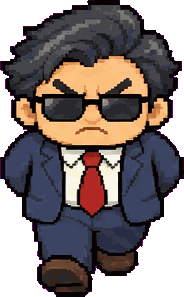
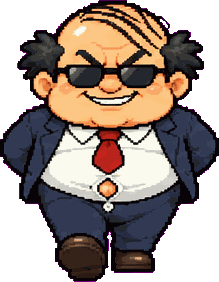
老板形象丑化：换成地中海盖顶版
- 重出老板 4 个动作（新表 s9_boss）和四向走路 12 帧，保留墨镜、藏青西装、红领带
- s5 里旧老板那一行不再输出，锅和特效不动；gen_walk.sh 的参考图支持绝对路径
- 重打老板图集，更新 DESIGN.md 角色表和改动记录

diff --git a/js/atlas.js b/js/atlas.js
@@ -1,2 +1,2 @@
 /* 由 assets_pixel/pack_atlas.py 自动生成，不要手改。每张图集里各小图的位置 [x, y, 宽, 高]；文件名带内容哈希，图集更新后浏览器会重新下载 */
-window.ATLAS = {"sheets":[{"file":"boss.png?v=c84c7d96","frames":{"boss_aim":[275,0,234,300],"boss_chase":[0,0,273,300],"boss_idle":[511,0,219,300],"boss_walk":[355,604,168,300],"boss_walk_d0":[525,604,184,297],"boss_walk_d1":[711,604,184,297],"boss_walk_d2":[0,906,184,297],"boss_walk_d3":[186,906,184,297],"boss_walk_s0":[732,0,187,300],"boss_walk_s1":[188,302,176,300],"boss_walk_s2":[0,302,186,300],"boss_walk_s3":[178,604,175,300],"boss_walk_u0":[366,302,176,300],"boss_walk_u1":[544,302,176,300],"boss_walk_u2":[722,302,176,300],"boss_walk_u3":[0,604,176,300]}},{"file":"props.png?v=6e7ce578","frames":{"boss_desk":[529,0,408,326],"cabinet":[556,654,225,218],"cooler":[442,362,132,251],"desk":[0,362,440,290],"meeting_table":[0,0,527,360],"plant":[321,654,233,222],"plant_small":[345,878,145,163],"printer":[783,654,203,205],"sofa":[0,878,343,196],"tea_counter":[0,654,319,222],"whiteboard":[576,362,286,231]}},{"file":"misc.png?v=8cd138b3","frames":{"closing_base_orange":[0,0,1170,288],"closing_base_plain":[0,290,1170,288],"closing_base_red":[0,580,1170,288],"closing_base_yellow":[0,870,1170,288],"closing_clock_orange":[0,1160,258,198],"closing_clock_red":[260,1160,258,198],"closing_clock_yellow":[520,1160,258,198],"fx_anger":[1194,1160,114,120],"fx_dizzy":[1077,1160,115,120],"fx_impact":[0,1360,120,112],"fx_sweat":[1310,1160,92,120],"fx_tears":[836,1360,120,95],"ui_badge":[760,1360,74,96],"ui_book":[0,1474,96,76],"ui_calendar":[414,1360,90,96],"ui_clock":[318,1360,94,96],"ui_coach_hand":[1172,870,192,207],"ui_crown":[1350,1360,96,84],"ui_exit":[506,1360,88,96],"ui_lock":[681,1360,77,96],"ui_pause":[596,1360,83,96],"ui_praise_bounce":[1154,1360,96,87],"ui_praise_rankup":[294,1474,96,56],"ui_praise_thumb":[122,1360,96,96],"ui_sound_off":[220,1360,96,96],"ui_sound_on":[98,1474,96,75],"ui_star":[958,1360,96,93],"ui_star_empty":[1056,1360,96,91],"ui_warning":[1252,1360,96,85],"ui_wok":[196,1474,96,69],"wok":[780,1160,143,150],"wok_flying":[925,1160,150,132]}},{"file":"designer.png?v=8859db51","frames":{"designer_angry":[0,0,196,230],"designer_flat":[138,696,230,105],"designer_hit":[198,0,188,230],"designer_normal":[0,696,136,230],"designer_walk_d0":[147,464,144,230],"designer_walk_d1":[585,464,143,230],"designer_walk_d2":[388,0,146,230],"designer_walk_d3":[293,464,144,230],"designer_walk_s0":[536,0,146,230],"designer_walk_s1":[0,464,145,230],"designer_walk_s2":[0,232,146,230],"designer_walk_s3":[439,464,144,230],"designer_walk_u0":[148,232,146,230],"designer_walk_u1":[296,232,146,230],"designer_walk_u2":[444,232,146,230],"designer_walk_u3":[592,232,146,230]}},{"file":"director.png?v=8661d6e9","frames":{"director_aim":[636,604,300,287],"director_chase":[0,0,263,300],"director_idle":[488,604,146,300],"director_walk":[806,0,173,300],"director_walk_d0":[517,302,165,300],"director_walk_d1":[326,604,160,300],"director_walk_d2":[265,0,180,300],"director_walk_d3":[0,604,161,300],"director_walk_s0":[0,302,173,300],"director_walk_s1":[163,604,161,300],"director_walk_s2":[175,302,172,300],"director_walk_s3":[849,302,162,300],"director_walk_u0":[447,0,178,300],"director_walk_u1":[349,302,166,300],"director_walk_u2":[627,0,177,300],"director_walk_u3":[684,302,163,300]}},{"file":"intern.png?v=46c1a2f4","frames":{"intern_cry":[0,0,168,230],"intern_flat":[0,696,230,113],"intern_hit":[170,0,159,230],"intern_normal":[563,464,130,230],"intern_walk_d0":[440,232,140,230],"intern_walk_d1":[0,464,139,230],"intern_walk_d2":[154,232,141,230],"intern_walk_d3":[297,232,141,230],"intern_walk_s0":[331,0,152,230],"intern_walk_s1":[485,0,152,230],"intern_walk_s2":[639,0,152,230],"intern_walk_s3":[0,232,152,230],"intern_walk_u0":[423,464,138,230],"intern_walk_u1":[582,232,140,230],"intern_walk_u2":[141,464,139,230],"intern_walk_u3":[282,464,139,230]}},{"file":"intro.png?v=758b9cec","frames":{"intro_plate":[0,0,956,1645],"intro_tab_blue":[958,0,282,146],"intro_tab_gold":[0,1647,282,146]}},{"file":"player.png?v=f99e8b0e","frames":{"player_crushed":[0,696,230,217],"player_normal":[289,464,139,230],"player_panic":[0,0,177,230],"player_walk_d0":[295,232,144,230],"player_walk_d1":[441,232,144,230],"player_walk_d2":[329,0,146,230],"player_walk_d3":[587,232,143,230],"player_walk_s0":[0,464,143,230],"player_walk_s1":[430,464,139,230],"player_walk_s2":[145,464,142,230],"player_walk_s3":[571,464,139,230],"player_walk_u0":[477,0,146,230],"player_walk_u1":[625,0,146,230],"player_walk_u2":[0,232,146,230],"player_walk_u3":[148,232,145,230],"player_win":[179,0,148,230]}},{"file":"pm.png?v=2ad2713c","frames":{"pm_angry":[0,0,148,230],"pm_flat":[463,464,230,116],"pm_hit":[150,0,148,230],"pm_normal":[547,0,118,230],"pm_walk_d0":[0,232,118,230],"pm_walk_d1":[234,464,113,230],"pm_walk_d2":[358,232,116,230],"pm_walk_d3":[349,464,112,230],"pm_walk_s0":[120,232,117,230],"pm_walk_s1":[476,232,116,230],"pm_walk_s2":[239,232,117,230],"pm_walk_s3":[594,232,116,230],"pm_walk_u0":[424,0,121,230],"pm_walk_u1":[0,464,115,230],"pm_walk_u2":[300,0,122,230],"pm_walk_u3":[117,464,115,230]}},{"file":"tester.png?v=40e278a0","frames":{"tester_angry":[0,0,166,230],"tester_flat":[0,696,230,104],"tester_hit":[168,0,157,230],"tester_normal":[146,232,136,230],"tester_walk_d0":[418,232,131,230],"tester_walk_d1":[551,232,131,230],"tester_walk_d2":[0,464,131,230],"tester_walk_d3":[133,464,131,230],"tester_walk_s0":[327,0,152,230],"tester_walk_s1":[629,0,144,230],"tester_walk_s2":[481,0,146,230],"tester_walk_s3":[0,232,144,230],"tester_walk_u0":[266,464,130,230],"tester_walk_u1":[398,464,130,230],"tester_walk_u2":[284,232,132,230],"tester_walk_u3":[530,464,130,230]}},{"file":"veteran.png?v=6a5f6ad4","frames":{"veteran_flat":[0,696,230,101],"veteran_hit":[0,0,175,230],"veteran_normal":[634,0,149,230],"veteran_tea":[330,0,150,230],"veteran_walk_d0":[177,0,151,230],"veteran_walk_d1":[300,232,143,230],"veteran_walk_d2":[482,0,150,230],"veteran_walk_d3":[445,232,142,230],"veteran_walk_s0":[0,464,137,230],"veteran_walk_s1":[546,464,126,230],"veteran_walk_s2":[589,232,138,230],"veteran_walk_s3":[417,464,127,230],"veteran_walk_u0":[0,232,149,230],"veteran_walk_u1":[139,464,137,230],"veteran_walk_u2":[151,232,147,230],"veteran_walk_u3":[278,464,137,230]}}]};
+window.ATLAS = {"sheets":[{"file":"boss.png?v=d30d07c3","frames":{"boss_aim":[486,0,216,300],"boss_chase":[246,0,238,300],"boss_idle":[0,0,244,300],"boss_walk":[704,0,204,300],"boss_walk_d0":[851,302,219,282],"boss_walk_d1":[0,602,218,282],"boss_walk_d2":[438,602,215,282],"boss_walk_d3":[220,602,216,282],"boss_walk_s0":[0,302,226,298],"boss_walk_s1":[451,302,198,298],"boss_walk_s2":[228,302,221,298],"boss_walk_s3":[651,302,198,298],"boss_walk_u0":[655,602,217,280],"boss_walk_u1":[874,602,213,280],"boss_walk_u2":[0,886,212,280],"boss_walk_u3":[214,886,211,280]}},{"file":"props.png?v=6e7ce578","frames":{"boss_desk":[529,0,408,326],"cabinet":[556,654,225,218],"cooler":[442,362,132,251],"desk":[0,362,440,290],"meeting_table":[0,0,527,360],"plant":[321,654,233,222],"plant_small":[345,878,145,163],"printer":[783,654,203,205],"sofa":[0,878,343,196],"tea_counter":[0,654,319,222],"whiteboard":[576,362,286,231]}},{"file":"misc.png?v=8cd138b3","frames":{"closing_base_orange":[0,0,1170,288],"closing_base_plain":[0,290,1170,288],"closing_base_red":[0,580,1170,288],"closing_base_yellow":[0,870,1170,288],"closing_clock_orange":[0,1160,258,198],"closing_clock_red":[260,1160,258,198],"closing_clock_yellow":[520,1160,258,198],"fx_anger":[1194,1160,114,120],"fx_dizzy":[1077,1160,115,120],"fx_impact":[0,1360,120,112],"fx_sweat":[1310,1160,92,120],"fx_tears":[836,1360,120,95],"ui_badge":[760,1360,74,96],"ui_book":[0,1474,96,76],"ui_calendar":[414,1360,90,96],"ui_clock":[318,1360,94,96],"ui_coach_hand":[1172,870,192,207],"ui_crown":[1350,1360,96,84],"ui_exit":[506,1360,88,96],"ui_lock":[681,1360,77,96],"ui_pause":[596,1360,83,96],"ui_praise_bounce":[1154,1360,96,87],"ui_praise_rankup":[294,1474,96,56],"ui_praise_thumb":[122,1360,96,96],"ui_sound_off":[220,1360,96,96],"ui_sound_on":[98,1474,96,75],"ui_star":[958,1360,96,93],"ui_star_empty":[1056,1360,96,91],"ui_warning":[1252,1360,96,85],"ui_wok":[196,1474,96,69],"wok":[780,1160,143,150],"wok_flying":[925,1160,150,132]}},{"file":"designer.png?v=8859db51","frames":{"designer_angry":[0,0,196,230],"designer_flat":[138,696,230,105],"designer_hit":[198,0,188,230],"designer_normal":[0,696,136,230],"designer_walk_d0":[147,464,144,230],"designer_walk_d1":[585,464,143,230],"designer_walk_d2":[388,0,146,230],"designer_walk_d3":[293,464,144,230],"designer_walk_s0":[536,0,146,230],"designer_walk_s1":[0,464,145,230],"designer_walk_s2":[0,232,146,230],"designer_walk_s3":[439,464,144,230],"designer_walk_u0":[148,232,146,230],"designer_walk_u1":[296,232,146,230],"designer_walk_u2":[444,232,146,230],"designer_walk_u3":[592,232,146,230]}},{"file":"director.png?v=8661d6e9","frames":{"director_aim":[636,604,300,287],"director_chase":[0,0,263,300],"director_idle":[488,604,146,300],"director_walk":[806,0,173,300],"director_walk_d0":[517,302,165,300],"director_walk_d1":[326,604,160,300],"director_walk_d2":[265,0,180,300],"director_walk_d3":[0,604,161,300],"director_walk_s0":[0,302,173,300],"director_walk_s1":[163,604,161,300],"director_walk_s2":[175,302,172,300],"director_walk_s3":[849,302,162,300],"director_walk_u0":[447,0,178,300],"director_walk_u1":[349,302,166,300],"director_walk_u2":[627,0,177,300],"director_walk_u3":[684,302,163,300]}},{"file":"intern.png?v=46c1a2f4","frames":{"intern_cry":[0,0,168,230],"intern_flat":[0,696,230,113],"intern_hit":[170,0,159,230],"intern_normal":[563,464,130,230],"intern_walk_d0":[440,232,140,230],"intern_walk_d1":[0,464,139,230],"intern_walk_d2":[154,232,141,230],"intern_walk_d3":[297,232,141,230],"intern_walk_s0":[331,0,152,230],"intern_walk_s1":[485,0,152,230],"intern_walk_s2":[639,0,152,230],"intern_walk_s3":[0,232,152,230],"intern_walk_u0":[423,464,138,230],"intern_walk_u1":[582,232,140,230],"intern_walk_u2":[141,464,139,230],"intern_walk_u3":[282,464,139,230]}},{"file":"intro.png?v=758b9cec","frames":{"intro_plate":[0,0,956,1645],"intro_tab_blue":[958,0,282,146],"intro_tab_gold":[0,1647,282,146]}},{"file":"player.png?v=f99e8b0e","frames":{"player_crushed":[0,696,230,217],"player_normal":[289,464,139,230],"player_panic":[0,0,177,230],"player_walk_d0":[295,232,144,230],"player_walk_d1":[441,232,144,230],"player_walk_d2":[329,0,146,230],"player_walk_d3":[587,232,143,230],"player_walk_s0":[0,464,143,230],"player_walk_s1":[430,464,139,230],"player_walk_s2":[145,464,142,230],"player_walk_s3":[571,464,139,230],"player_walk_u0":[477,0,146,230],"player_walk_u1":[625,0,146,230],"player_walk_u2":[0,232,146,230],"player_walk_u3":[148,232,145,230],"player_win":[179,0,148,230]}},{"file":"pm.png?v=2ad2713c","frames":{"pm_angry":[0,0,148,230],"pm_flat":[463,464,230,116],"pm_hit":[150,0,148,230],"pm_normal":[547,0,118,230],"pm_walk_d0":[0,232,118,230],"pm_walk_d1":[234,464,113,230],"pm_walk_d2":[358,232,116,230],"pm_walk_d3":[349,464,112,230],"pm_walk_s0":[120,232,117,230],"pm_walk_s1":[476,232,116,230],"pm_walk_s2":[239,232,117,230],"pm_walk_s3":[594,232,116,230],"pm_walk_u0":[424,0,121,230],"pm_walk_u1":[0,464,115,230],"pm_walk_u2":[300,0,122,230],"pm_walk_u3":[117,464,115,230]}},{"file":"tester.png?v=40e278a0","frames":{"tester_angry":[0,0,166,230],"tester_flat":[0,696,230,104],"tester_hit":[168,0,157,230],"tester_normal":[146,232,136,230],"tester_walk_d0":[418,232,131,230],"tester_walk_d1":[551,232,131,230],"tester_walk_d2":[0,464,131,230],"tester_walk_d3":[133,464,131,230],"tester_walk_s0":[327,0,152,230],"tester_walk_s1":[629,0,144,230],"tester_walk_s2":[481,0,146,230],"tester_walk_s3":[0,232,144,230],"tester_walk_u0":[266,464,130,230],"tester_walk_u1":[398,464,130,230],"tester_walk_u2":[284,232,132,230],"tester_walk_u3":[530,464,130,230]}},{"file":"veteran.png?v=6a5f6ad4","frames":{"veteran_flat":[0,696,230,101],"veteran_hit":[0,0,175,230],"veteran_normal":[634,0,149,230],"veteran_tea":[330,0,150,230],"veteran_walk_d0":[177,0,151,230],"veteran_walk_d1":[300,232,143,230],"veteran_walk_d2":[482,0,150,230],"veteran_walk_d3":[445,232,142,230],"veteran_walk_s0":[0,464,137,230],"veteran_walk_s1":[546,464,126,230],"veteran_walk_s2":[589,232,138,230],"veteran_walk_s3":[417,464,127,230],"veteran_walk_u0":[0,232,149,230],"veteran_walk_u1":[139,464,137,230],"veteran_walk_u2":[151,232,147,230],"veteran_walk_u3":[278,464,137,230]}}]};

diff --git a/assets_pixel/cut_sheets.py b/assets_pixel/cut_sheets.py
@@ -23,12 +23,14 @@ NAMES = {
                             'veteran_normal', 'veteran_tea', 'veteran_hit', 'veteran_flat'],
     's4_intern_director': ['intern_normal', 'intern_cry', 'intern_hit', 'intern_flat',
                            'director_walk', 'director_aim', 'director_chase', 'director_idle'],
-    's5_boss_items': ['boss_walk', 'boss_aim', 'boss_chase', 'boss_idle',
+    # s5 第 1 行是旧版墨镜老板，2026-11-02 起改用 s9_boss，这 4 格写 None 不再输出
+    's5_boss_items': [None, None, None, None,
                       'wok', 'wok_flying', 'fx_anger', 'fx_tears', 'fx_sweat', 'fx_dizzy', 'fx_impact'],
     's6_props': ['desk', 'meeting_table', 'boss_desk', 'cooler', 'printer', 'plant', 'plant_small',
                  'cabinet', 'whiteboard', 'tea_counter', 'sofa'],
     's7_ui': ['ui_clock', 'ui_wok', 'ui_crown', 'ui_star', 'ui_star_empty',
               'ui_pause', 'ui_sound_on', 'ui_sound_off', 'ui_warning', 'ui_exit'],
+    's9_boss': ['boss_walk', 'boss_aim', 'boss_chase', 'boss_idle'],  # 地中海盖顶版老板（gen_assets.sh）
     's8_lobby_ui': ['ui_lock', 'ui_badge', 'ui_book', 'ui_calendar'],  # 大厅图标（gen_lobby.sh）
 }
 
@@ -41,7 +43,7 @@ for _who in WALKERS:
 ROWS = {
     'ui_praise': [3],
     's1_player': [4], 's2_pm_tester': [4, 4], 's3_designer_veteran': [4, 4],
-    's4_intern_director': [4, 4], 's5_boss_items': [4, 7], 's6_props': [3, 4, 4], 's7_ui': [5, 5], 's8_lobby_ui': [4],
+    's4_intern_director': [4, 4], 's5_boss_items': [4, 7], 's6_props': [3, 4, 4], 's7_ui': [5, 5], 's8_lobby_ui': [4], 's9_boss': [4],
     **{'w_' + w: [4, 4, 4] for w in WALKERS},
 }
 
@@ -152,6 +154,8 @@ def main():
     sheets = sys.argv[1:] or list(NAMES)
     for sheet in sheets:
         for name, im in cut(sheet):
+            if name is None:  # 已废弃的格子：照常切开保证顺序，但不输出
+                continue
             im.save(os.path.join(OUT, name + '.png'))
             print(f'{sheet:22s} → {name:16s} {im.width}×{im.height}')
 

diff --git a/implementation-notes.md b/implementation-notes.md
@@ -1,3 +1,14 @@
+## 2026-11-02 · 老板丑化：改成地中海盖顶
+
+- **用户定的：** 原来的老板太美化了，要丑化一点；从 12 个丑化方向的样稿里选了 A「地中海盖顶」。样稿和对比图在 `../prototypes/boss-ugly/`（`overview.jpg`）。
+- **我定的细节（可改）：** 保留黑墨镜、藏青西装、红领带作为识别特征，只改头型和身材：秃顶加几缕横梳的头发、两鬓炸毛、啤酒肚、衬衫崩一颗扣。老板的 4 个动作单独出一张表 `s9_boss`（`gen_assets.sh`），`s5_boss_items` 第 1 行的旧老板在 `cut_sheets.py` 里改成 `None`，不再输出，锅和特效不动。走路表 `w_boss` 重出（`gen_walk.sh` 的 REF 现在支持写绝对路径）。两张表都用 A 样稿作为身份参考。
+- **素材：** 重出 `boss_walk/aim/chase/idle` 和 12 帧走路，build_px 只构建了这 16 张，图集已重打。`assets/px` 合计 1.8 MB，没超过 2 MB。旧的老板表和成品备份在 `../prototypes/boss-ugly/old/`。
+- **注意：** 老油条也是光头，两人现在都是秃头。靠老板的墨镜、两鬓炸毛和体型来区分，画面边缘的方位头像也能分开（老板红框戴墨镜，老油条绿框戴小眼镜）。
+- **已验证：** JS 语法检查；390×844 浏览器第 1 关自动对局，老板巡逻和走路正常，屏幕边缘的头像已换成新脸，控制台无报错；16 张素材按游戏尺寸拼图检查过，帧间一致、脚底对齐。
+- **未验证：** 瞄准、追人、结算页、「领导出差」Buff 卡上的新老板没在实机里逐个看到（用的是同一批图，按理会自动换上）。
+
+---
+
 ## 2026-11-02 · 下班倒计时按参考图直接切片重做
 
 - **用户定的：** 素材直接从参考图裁切（assets cut directly from the reference），不再 CSS 拼框。三档 10–6 秒黄 / 5–3 秒亮橙 / 2–1 秒红，角标按原图黄 / 黄 / 红；去除素材中的标题、副标题、短横线、数字和「秒」，文字由代码叠加。钟体独立抖动，保留排名文案、逐秒弹跳及音效、0.45 秒铃声 + 1 秒反馈。字体先保持思源黑体（用户定）。

diff --git a/DESIGN.md b/DESIGN.md
@@ -91,7 +91,7 @@
 | 美工 | `designer_` | **红贝雷帽**、橙上衣 | 64px |
 | 老油条 | `veteran_` | 光头、小眼镜、米色衬衫、**保温杯** | 64px |
 | 新来的 | `intern_` | 棕色马尾、白衬衫黑裙、**工牌** | 64px |
-| 老板 | `boss_` | **黑墨镜**、油头、藏青西装红领带，体型壮 | 94px |
+| 老板 | `boss_` | **地中海盖顶**（秃顶上横梳几缕油头发、两鬓炸毛）、黑墨镜、啤酒肚撑开衬衫崩一颗扣、紧绷的藏青西装、短红领带搭在肚子上。讨嫌但好笑，不恶心 | 94px |
 | 经理 | `director_` | 黑框眼镜、灰西装、**黄色夹板** | 86px |
 
 体型规则：同事都是 64px；主角略高，为 70px，并且脚下有一圈黄色光晕；领导明显更大（经理约同事的 1.3 倍，老板约 1.45 倍），让人一眼看出危险来源。
